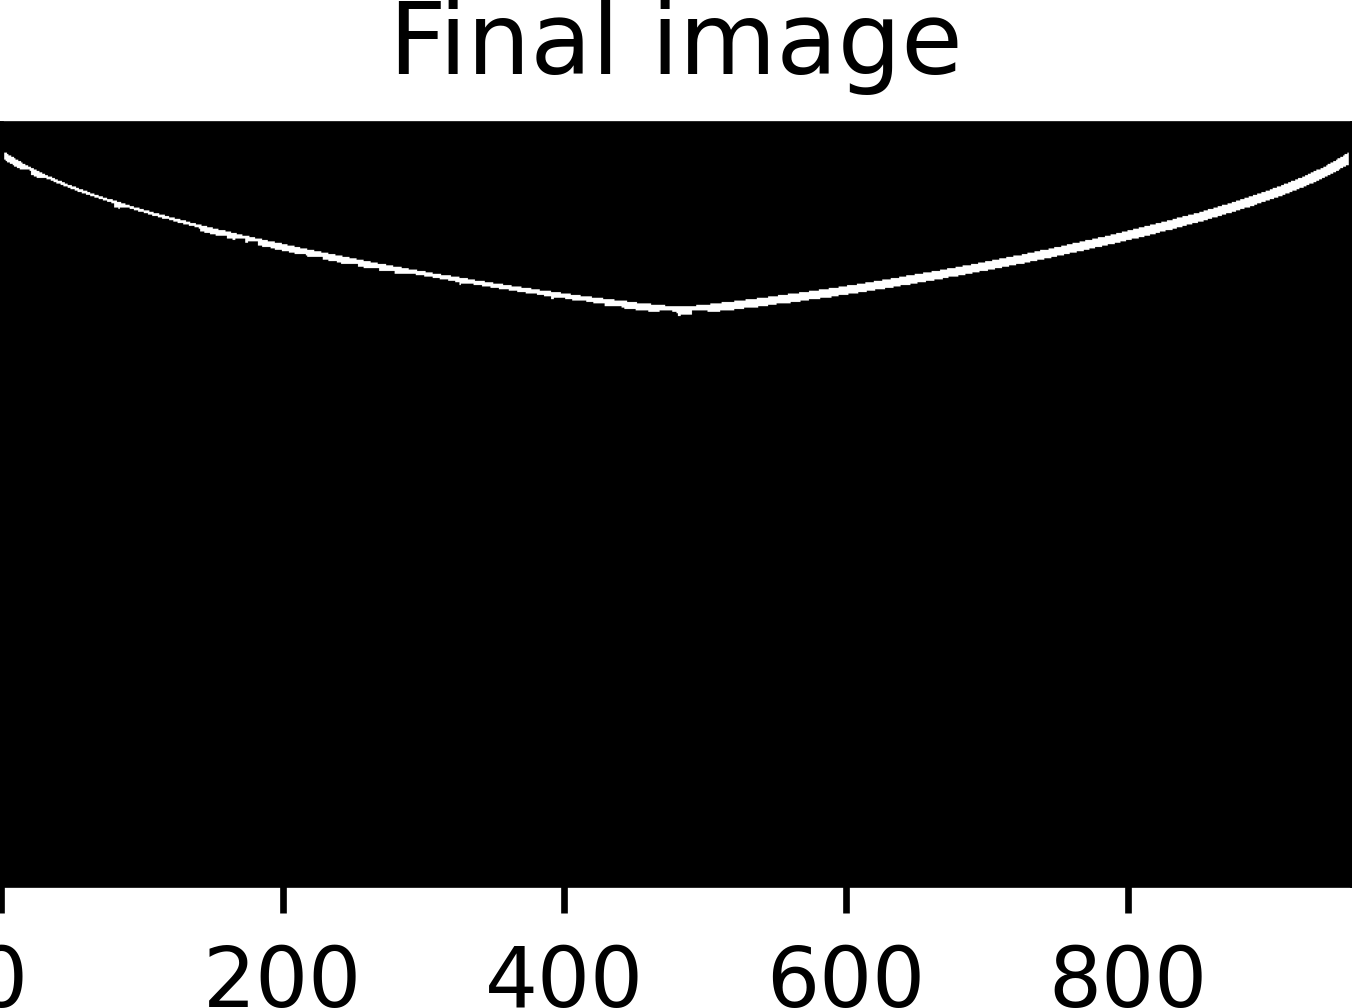
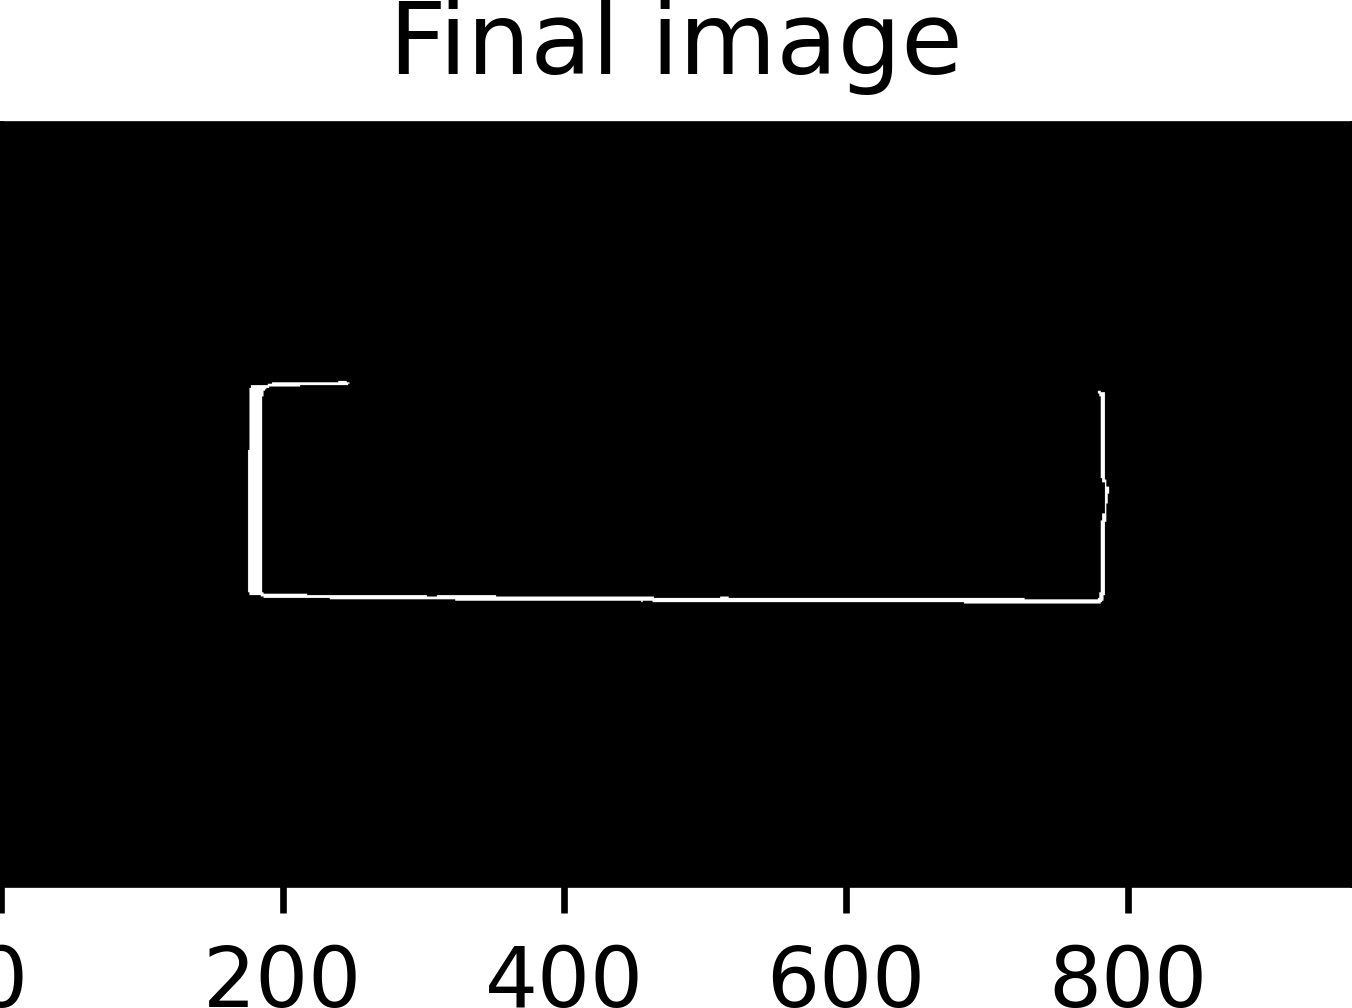
drawing connected component with AR in range
Detecting the largest connected component with the given AR and only drawing it for troubleshooting purposes working

diff --git a/CS373LicensePlateDetection.py b/CS373LicensePlateDetection.py
@@ -295,6 +295,8 @@ def main():
     reversed_keys = [x[0] for x in reversed_dict]
     print(reversed_keys)
 
+    largest_key_ar = None
+
     for key in reversed_keys:
         for i in range(len(res)):
             for j in range(len(res[i])):
@@ -310,8 +312,10 @@ def main():
         aspect_ratio = bbox_width / bbox_height
     # (470, 225) and (590, 270)
         if 1.5 <= aspect_ratio <= 5:
+            largest_key_ar = key
             break
 
+    print("largest key with AR", largest_key_ar)
     print(min_pixel, max_pixel)
 
 
@@ -333,10 +337,10 @@ def main():
 
     for i in range(len(res)):
         for j in range(len(res[i])):
-            if res[i][j] == largest_key:
+            if res[i][j] == largest_key_ar:
                 res_largest_component[i][j] = 1
 
-    print(res_largest_component)
+    # print(res_largest_component)
 
     # Draw a bounding box as a rectangle into the input image
     axs1[1, 1].set_title('Final image')
